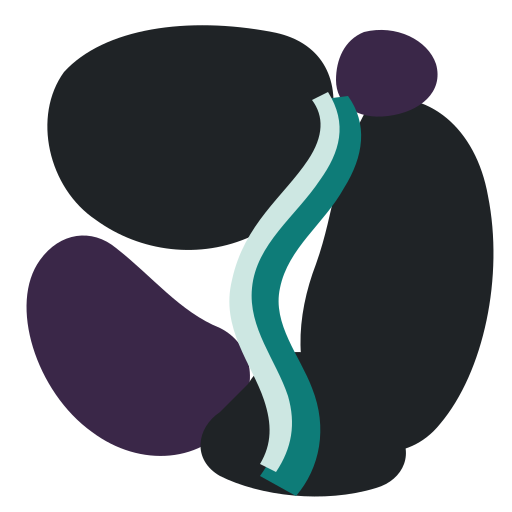
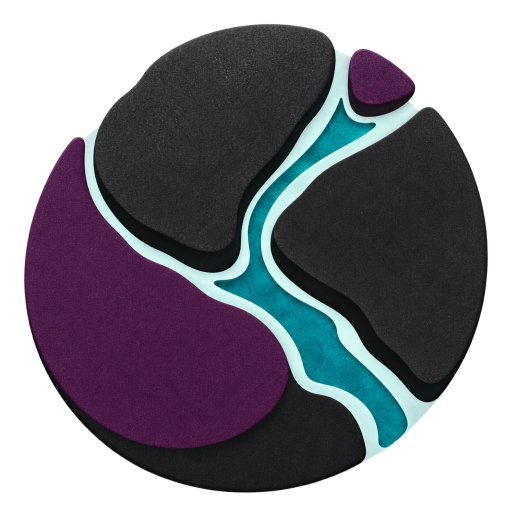
Complete Cirvane dimensional brand identity (#3)
Promote the approved Recovery Scar artwork, adopt the Figtree wordmark, add deterministic derivatives and exports, and record brand provenance and licensing. Local CI, deterministic asset validation, contract tests, bootstrap validation and the signed ESP32-C5 build passed.

diff --git a/scripts/generate_brand_manifest.py b/scripts/generate_brand_manifest.py
@@ -14,6 +14,7 @@ from xml.etree import ElementTree
 ROOT = Path(__file__).resolve().parents[1]
 BRAND = ROOT / "assets" / "brand"
 EXPORT_SOURCES = {
+    "cirvane-symbol-mono-dimensional.png": "assets/brand/source/cirvane-symbol-dimensional.png",
     "cirvane-symbol-16.png": "assets/brand/source/cirvane-symbol-small.svg",
     "cirvane-symbol-32.png": "assets/brand/source/cirvane-symbol-small.svg",
     "cirvane-symbol-64.png": "assets/brand/source/cirvane-symbol.svg",
@@ -90,6 +91,13 @@ def main() -> int:
             relative = path.relative_to(ROOT)
         except ValueError:
             relative = Path("assets/brand/exports") / path.name
+        is_export = relative.parts[:3] == ("assets", "brand", "exports")
+        is_dimensional_source = relative.name in {
+            "cirvane-symbol-dimensional.png", "cirvane-symbol-mono-dimensional.png"
+        }
+        is_figtree_wordmark = relative.name in {
+            "cirvane-wordmark.svg", "cirvane-wordmark-reversed.svg"
+        }
         entry = {
             "path": str(relative),
             "sha256": digest(path),
@@ -98,14 +106,25 @@ def main() -> int:
             "colourSpace": "sRGB" if media_type.startswith("image/") else None,
             "licence": "MIT",
             "creator": "OpenAI Codex under owner direction",
-            "provenance": "manually authored deterministic source" if path.suffix != ".png" else "deterministic librsvg export",
+            "provenance": (
+                "owner-approved AI-assisted raster master and deterministic derivative"
+                if is_dimensional_source else
+                "Figtree weight 450 outlines under the SIL Open Font License 1.1"
+                if is_figtree_wordmark else
+                "deterministic librsvg export" if is_export else
+                "manually authored deterministic source"
+            ),
             "allowedUse": allowed_use(relative),
-            "exportCommand": "scripts/export-brand-assets.sh" if path.suffix == ".png" else None,
+            "exportCommand": (
+                "scripts/export-brand-assets.sh" if is_export else
+                "scripts/generate-brand-derivatives.sh" if relative.name == "cirvane-symbol-mono-dimensional.png" else
+                None
+            ),
             "sourcePath": EXPORT_SOURCES.get(path.name),
             "sourceSha256": digest(ROOT / EXPORT_SOURCES[path.name]) if path.name in EXPORT_SOURCES else None,
         }
         entries.append(entry)
-    document = {"schemaVersion": 1, "brandVersion": "1.0.0", "assets": entries}
+    document = {"schemaVersion": 1, "brandVersion": "2.0.0", "assets": entries}
     output.parent.mkdir(parents=True, exist_ok=True)
     output.write_text(json.dumps(document, indent=2, sort_keys=True) + "\n", encoding="utf-8")
     print(f"Generated manifest with {len(entries)} entries at {output}")

diff --git a/scripts/validate_brand.py b/scripts/validate_brand.py
@@ -19,9 +19,15 @@ REQUIRED_SOURCES = {
     "cirvane-horizontal-reversed.svg", "cirvane-horizontal.svg",
     "cirvane-icons.svg", "cirvane-stacked.svg", "cirvane-symbol-mono.svg",
     "cirvane-symbol-reversed.svg", "cirvane-symbol-small.svg",
-    "cirvane-symbol.svg", "cirvane-wordmark-reversed.svg", "cirvane-wordmark.svg",
+    "cirvane-symbol.svg", "cirvane-symbol-dimensional.png",
+    "cirvane-symbol-mono-dimensional.png", "cirvane-wordmark-reversed.svg",
+    "cirvane-wordmark.svg",
 }
-FORBIDDEN_TAGS = {"script", "foreignObject", "image", "iframe", "audio", "video"}
+FORBIDDEN_TAGS = {"script", "foreignObject", "iframe", "audio", "video"}
+ALLOWED_LOCAL_IMAGES = {
+    "cirvane-symbol-dimensional.png", "cirvane-symbol-mono-dimensional.png",
+    "cirvane-wordmark.svg", "cirvane-wordmark-reversed.svg",
+}
 MATURITY = re.compile(r"\b(?:alpha|beta|evaluation|experimental|preview|release candidate|production-ready)\b", re.I)
 
 
@@ -53,7 +59,7 @@ def png_dimensions(path: Path) -> list[int]:
 
 def main() -> int:
     failures: list[str] = []
-    actual_sources = {path.name for path in (BRAND / "source").glob("*.svg")}
+    actual_sources = {path.name for path in (BRAND / "source").iterdir() if path.is_file()}
     if actual_sources != REQUIRED_SOURCES:
         failures.append(f"canonical source inventory mismatch: {sorted(actual_sources)}")
 
@@ -79,8 +85,8 @@ def main() -> int:
                 attribute = local_name(name)
                 if attribute.lower().startswith("on"):
                     failures.append(f"{path.relative_to(ROOT)}: event attribute {attribute}")
-                if attribute in {"href", "src"}:
-                    failures.append(f"{path.relative_to(ROOT)}: external resource attribute {attribute}")
+                if attribute in {"href", "src"} and value not in ALLOWED_LOCAL_IMAGES:
+                    failures.append(f"{path.relative_to(ROOT)}: undeclared or external resource {value}")
                 if "url(" in value and "url(#" not in value:
                     failures.append(f"{path.relative_to(ROOT)}: external URL reference")
         if "/overlays/" not in f"/{path.relative_to(BRAND)}" and MATURITY.search(raw):
@@ -120,7 +126,7 @@ def main() -> int:
                 failures.append(f"manifest digest mismatch: {entry['path']}")
             if path.suffix == ".png" and png_dimensions(path) != entry["dimensions"]:
                 failures.append(f"manifest dimensions mismatch: {entry['path']}")
-            if path.suffix == ".png":
+            if path.suffix == ".png" and "/exports/" in f"/{entry['path']}":
                 source_path = entry.get("sourcePath")
                 source_digest = entry.get("sourceSha256")
                 if not source_path or not (ROOT / source_path).is_file():

diff --git a/docs/BRAND_IDENTITY.md b/docs/BRAND_IDENTITY.md
@@ -54,12 +54,12 @@ Allowed current terms include bounded, supervised, rollback-tested, signed-updat
 
 The owner selected Recovery Scar on 2026-08-24 after rejecting two rounds of flat geometric marks. The mark is an irregular recovered artefact divided by a living mineral-teal seam. The disruption is not hidden: repair becomes the most recognisable feature.
 
-The canonical master is `assets/brand/source/cirvane-symbol.svg`. It was manually reconstructed as deterministic SVG geometry from an AI-assisted concept and contains no traced raster, font, external resource or third-party icon.
+The canonical expressive master is `assets/brand/source/cirvane-symbol-dimensional.png`, an owner-approved AI-assisted transparent raster artwork. `cirvane-symbol.svg` is a deterministic local wrapper used by the export pipeline and lockups. The monochrome source is a deterministic one-colour derivative that preserves the master silhouette and expresses the recovery channel as negative space. No third-party icon, font or remotely loaded resource is present.
 
 ### Construction and responsive use
 
-- Use the full-colour symbol at 32px or larger.
-- Use `cirvane-symbol-small.svg` from 16px through 31px.
+- Use the full-colour dimensional symbol at 32px or larger wherever the channel and stone texture remain clear.
+- Use `cirvane-symbol-small.svg` from 16px through 31px; it retains the approved composition but must be visually checked on its actual background.
 - Use the monochrome symbol when colour reproduction, forced colour or print constraints would collapse the seam.
 - Use the reversed symbol and lockup only on aubergine, graphite or imagery dark enough to maintain contrast.
 - Minimum horizontal lockup width is 136px; minimum stacked width is 86px.
@@ -82,7 +82,7 @@ Semantic success, warning, failure, information and unknown colours are separate
 
 ## Typography
 
-The canonical wordmark is custom path geometry. It must never be recreated with a font. Product and documentation typography use the platform system sans stack; code, shell and evidence use the platform system monospace stack. No font file is redistributed.
+The canonical wordmark uses optically spaced Figtree Medium outlines at weight 450. Figtree is distributed under the SIL Open Font License 1.1; the canonical SVG contains paths and has no runtime font dependency. Do not reset the wordmark as live text or substitute another weight. Product and documentation typography use the platform system sans stack; code, shell and evidence use the platform system monospace stack. No font binary is redistributed.
 
 - Display: 700 weight, compact leading, sentence case.
 - Interface: 400 or 550 weight; use 700 only for short hierarchy labels.
@@ -109,10 +109,10 @@ Required text pairs are machine-validated against WCAG AA. High-contrast and for
 
 ## Assets, provenance and governance
 
-Canonical sources live in `assets/brand/source/`; deterministic exports in `assets/brand/exports/`; templates in `assets/brand/templates/`; tokens in `assets/brand/tokens/`; licences in `assets/brand/LICENSES/`; and digests plus allowed use in `assets/brand/BRAND_ASSET_MANIFEST.json`.
+Canonical sources live in `assets/brand/source/`; deterministic exports in `assets/brand/exports/`; templates in `assets/brand/templates/`; tokens in `assets/brand/tokens/`; licences in `assets/brand/LICENSES/`; and digests plus allowed use in `assets/brand/BRAND_ASSET_MANIFEST.json`. Canonical SVG wrappers may reference only the declared local raster masters and wordmark sources. Validation rejects undeclared, remote and unsafe resources.
 
 Product and brand ownership remains with the repository owner. Engineering owns deterministic export and manifest integrity. Security owns claim-boundary review. Accessibility owns contrast and non-colour semantics. Legal owns trademark clearance before public opening. Changes require a versioned source change, regenerated exports, validation, PR review and an updated manifest; released assets are archived rather than silently overwritten.
 
 ## Remaining external gates
 
-The identity is technically complete only when repository validation, deterministic reproduction and visual QA pass. Public use additionally requires professional name and mark clearance, cultural review and owner approval of the rendered release surfaces. Visual polish is not product, security or production evidence.
+The identity is technically complete only when repository validation, deterministic reproduction and visual QA pass. Public use additionally requires professional name and mark clearance, cultural review, AI-assisted asset rights review and owner approval of the rendered release surfaces. Visual polish is not product, security or production evidence.

diff --git a/assets/brand/LICENSES/README.md b/assets/brand/LICENSES/README.md
@@ -1,7 +1,7 @@
 # Brand asset licences and provenance
 
-The Cirvane Recovery Scar symbol, custom path-based wordmark, lockups, icons, templates and design tokens are original project assets authored by OpenAI Codex under the owner's direction in 2026. They contain no traced raster artwork, third-party icons, embedded fonts or externally linked resources. They are distributed under the repository's MIT licence unless a future asset manifest explicitly records another licence.
+The Cirvane Recovery Scar dimensional symbol is an AI-assisted original project asset generated and selected under the owner's direction in 2026. The monochrome derivative, custom path-based wordmark, lockups, icons, templates and design tokens were produced for this repository from that approved identity. No third-party icon, embedded font or remotely linked resource is included. Repository distribution is under the MIT licence unless a future asset manifest records another licence; professional review of AI-assisted asset rights remains a public-opening gate.
 
-The canonical wordmark is path-based and therefore has no font dependency. Product interfaces use platform system-font stacks; the repository redistributes no font files. Each operating system vendor's licence governs its locally installed system fonts.
[1 lines of base64/hex data omitted]
 
-AI image generation was used only for non-canonical concept exploration. The selected Recovery Scar concept was manually reconstructed as new deterministic SVG geometry. Generated concept images are not shipped brand assets.
+The canonical dimensional source is the approved transparent extraction of the selected Recovery Scar concept. Its provenance and digest are recorded in the brand manifest. Earlier concept boards and rejected manual reconstructions remain design evidence only and are not shipped as canonical assets.

diff --git a/docs/brand/ASSET_USAGE.md b/docs/brand/ASSET_USAGE.md
@@ -12,7 +12,7 @@
 | Centred cover, poster or presentation | `cirvane-stacked.svg` |
 | Text-only constrained header | `cirvane-wordmark.svg` |
 
-Never use candidate assets outside design review. The `assets/brand/candidates/` tree records rejected and exploratory work and is excluded from the canonical manifest.
+Never use candidate assets outside design review. The `assets/brand/candidates/` tree records rejected and exploratory work and is excluded from the canonical manifest. The approved concept has been promoted by copying it into `assets/brand/source/cirvane-symbol-dimensional.png`; consumers must use the canonical source or exports, not the candidate copy.
 
 ## Plain-text fallback
 
@@ -28,5 +28,5 @@ Lifecycle and assurance language belongs in a separately named overlay instance.
 2. Preserve clear space and aspect ratio.
 3. Provide accessible naming when the mark conveys identity.
 4. Use semantic icons and labels for operational states.
-5. Regenerate rather than editing an exported PNG.
+5. Regenerate rather than editing an exported PNG or resizing the candidate master independently.
 6. Verify the asset digest against `BRAND_ASSET_MANIFEST.json`.

diff --git a/docs/brand/QUIET_HORIZON_SYMBOL_REVIEW.md b/docs/brand/QUIET_HORIZON_SYMBOL_REVIEW.md
@@ -2,7 +2,7 @@
 
 ## Decision state
 
-Cirvane and the palette are owner-approved. The owner rejected the first geometric and second faceted rounds as too visually anonymous. They remain as negative evidence. On 2026-08-24 the owner selected Recovery Scar from a creative-reset exploration. Its deterministic reconstruction is the canonical identity. Professional legal clearance remains open.
+Cirvane and the palette are owner-approved. The owner rejected the first geometric and second faceted rounds as too visually anonymous. They remain as negative evidence. On 2026-08-24 the owner selected Recovery Scar from a creative-reset exploration, rejected a later manual vector reconstruction as a design regression and approved a transparent extraction faithful to the selected concept as the canonical expressive identity. Professional legal and AI-assisted asset rights clearance remain open.
 
 ## Method
 
